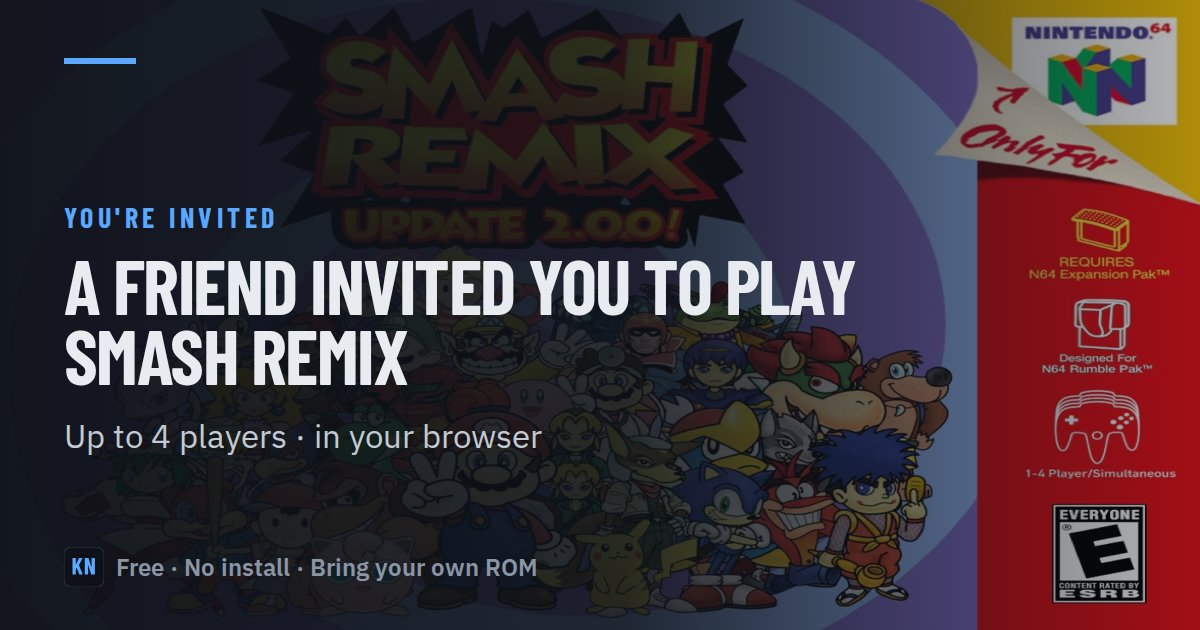
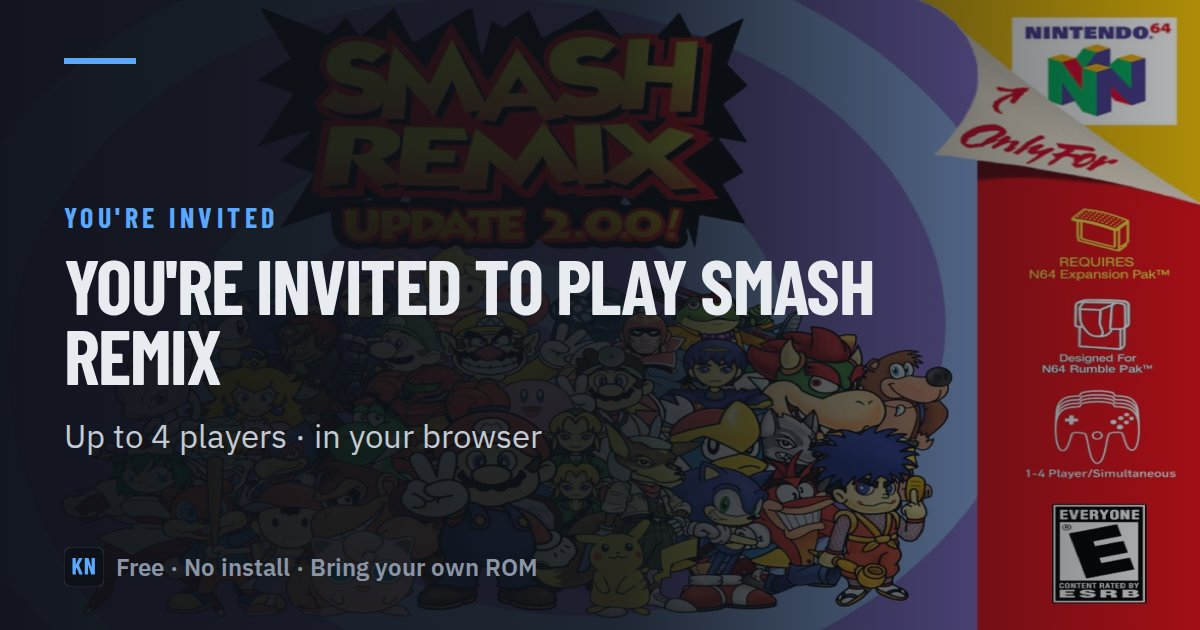
fix(web): re-render invite cards; tests check shipped card sizes and screenshots
- cards re-rendered with the host-free copy; the watch card's subtitle
  says 'No ROM needed to watch' instead of a third 'live'
- the screenshot test fails when SHOTS lists nothing; a new test checks
  the committed cards are within the 300 KB chat-preview limit

Claude-Session: https://claude.ai/code/session_01BmFCTYt6qwwYHQ3dEGRhpi

Changed region(s): [[0.0308, 0.3921, 0.74, 0.6333]]

diff --git a/tests/test_landing_build.py b/tests/test_landing_build.py
@@ -88,7 +88,9 @@ def test_release_metadata_is_not_part_of_landing_build_id(tmp_path):
 def test_screenshot_slots_have_accessible_lazy_image_contract():
     script = (REPO / "web" / "static" / "landing.js").read_text()
     # Every listed shot is a real WebP within the screenshot budget.
-    for src in re.findall(r"src: '(/static/shots/[^']+)'", script):
+    srcs = re.findall(r"""src: ['"](/static/shots/[^'"]+)['"]""", script)
+    assert srcs, "SHOTS lists no screenshots"
+    for src in srcs:
         shot = REPO / "web" / src.lstrip("/")
         assert shot.suffix == ".webp" and shot.is_file(), src
         assert shot.stat().st_size <= (120 if "photo" in shot.stem else 60) * 1024, src
@@ -97,6 +99,15 @@ def test_screenshot_slots_have_accessible_lazy_image_contract():
     assert "media.querySelector('.shots img, .lite:not([hidden])')" in script
     html = (REPO / "web" / "index.html").read_text()
     assert '<div class="media" id="how-media" hidden>' in html
+
+
+def test_committed_preview_cards_fit_chat_apps():
+    """WhatsApp drops link previews above ~300 KB; check the files that ship."""
+    og = REPO / "web" / "static" / "og"
+    cards = [og / "home.png", *sorted((og / "cards").glob("*.jpg"))]
+    assert len(cards) > 1
+    for card in cards:
+        assert card.stat().st_size <= 300 * 1024, card.name
 
 
 def test_og_renderer_enforces_chat_preview_size_limit():

diff --git a/server/src/api/og.py b/server/src/api/og.py
@@ -103,7 +103,7 @@ def _build_card_html(
             headline = f"Come watch {host}'s room" if host else f"Watch {game} live"
         else:
             headline = f"{host} invited you to play {game}" if host else f"You're invited to play {game}"
-        detail = "Live in your browser" if spectate else "Up to 4 players · in your browser"
+        detail = "No ROM needed to watch" if spectate else "Up to 4 players · in your browser"
         footer = "Free · No install · Bring your own ROM"
 
     logo = f"""<svg class="logo" viewBox="0 0 32 32" aria-hidden="true">

diff --git a/tests/test_og.py b/tests/test_og.py
@@ -75,7 +75,7 @@ def test_game_card_uses_inline_logo_and_non_repeating_detail():
     assert "kaillera-next ·" not in play
 
     watch = _build_card_html(None, "ssb64", spectate=True)
-    assert "Live in your browser" in watch
+    assert "No ROM needed to watch" in watch
     assert "Watch Super Smash Bros. 64 live" in watch
 
 
